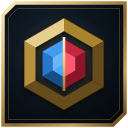
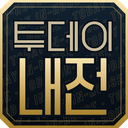
v0.1.182: 새 아이콘 - 리틱체 투데이/내전 + TODAY IN-HOUSE 무늬(앱·홈페이지·디스코드 원형)

diff --git a/CLAUDE.md b/CLAUDE.md
@@ -7,7 +7,7 @@
 - 배포(옛): 사이트(sohada2.github.io/aram) **최하단**에 「투데이 내전 다운로드」 버튼(기존 「내전 오버레이 다운로드」 옆)
 - 출발점: aram-overlay v0.1.55 코드에서 도킹·창·트레이·자동 업데이트·내장 브릿지·팀짜기 알고리즘만 가져오고, 복권·대장간·상점·가챠·패스·프로필·LP·막고라·아이템 페이즈·숨은 라이브 계정은 전부 걷어냄
 
-## 🔄 다른 PC에서 이어받기 (2026-11-12 · v0.1.181)
+## 🔄 다른 PC에서 이어받기 (2026-11-12 · v0.1.182)
 1. **`git pull` 먼저** — 여러 PC가 main에 직접 푸시 + **aramgg 봇이 매일 한국 4:30 main에 커밋**(`docs/data/aramgg`) → 안 받고 푸시하면 거절됨.
 2. `npm install` · ⚠ 셸에 `ELECTRON_RUN_AS_NODE=1`이 있으면 `env -u ELECTRON_RUN_AS_NODE ./node_modules/electron/dist/electron.exe .` · 테스트는 창 숨김(`TN_HIDDEN=1`, 아래 「실행 / 배포」).
 3. **관리자 도구(서버 규칙·시험 데이터 정리·사용량 조회)** = `npm i -g firebase-tools` → `firebase login`(사장님 계정 shm2644) → `node tools/gapi.cjs <메서드> <URL> [본문]` · 규칙 확인 = `node tools/rules-test.cjs`(70건 · 인증 없는 요청 허용/차단 + 끝나면 정리). ⚠ 이 PC 임시 폴더(scratchpad) 도구는 다른 PC에 없음 — 필요한 건 `tools/`에 있음. 집 PC(`C:\Users\so`)도 2026-11-04에 설치·로그인함(VS Code 확장에선 `firebase login`이 브라우저를 못 띄워 → 나온 주소를 사장님이 열고 받은 코드로 `firebase login <코드>`).
@@ -200,6 +200,7 @@ npm start      # ⚠ 이 PC 셸은 ELECTRON_RUN_AS_NODE=1 → env -u ELECTRON
 - **v0.1.97 (2026-11-02)**: 🛡 보안 강화 — 위 「서버 규칙」 v0.1.97 항목(통째 지우기 막음·지난 결과 고정 sv·모양/크기 검사·옛 칸 닫음·목록 밖 방 정리·중계 IP 제한). 앱 변경 = `withSv`(새 경기 기록에 서버 시각) + `roomGc` 목록 밖 방 정리. ⚠ 규칙상 v0.1.96 이하 앱은 경기 기록을 못 만듦(sv 없음) → 자동 업데이트 필수.
 - **v0.1.98 (2026-11-02)**: 🔐 익명 로그인 표식 — 위 「서버 규칙」 익명 로그인 항목. 규칙은 그대로 공개(1단계) · 2단계(auth != null)는 친구들 업데이트 뒤.
 - **v0.1.99 (2026-11-02)**: 🧹 조사용 기록 수집 끔 + 🔐 영상 중계에 로그인 표식 — 위 「서버 규칙」 v0.1.99 항목.
+- **v0.1.182 (2026-11-12)**: 🎨 **새 아이콘 = 리틱체 「투데이 / 내전」 + 흐린 「TODAY IN-HOUSE」 사선 윤곽 무늬**(사장님: 아이콘 변경·디스코드 쪽도 모두 → 글자 중심 시안 6번 돌림: 1차 6개(「내」·두 팀·「내전」·두 줄·TI) → E(두 줄)가 그나마 · 영문+한글 섞은 것·다양하게 → 2차 9개(리틱체) → A(TODAY+내전)·H(리틱체 투데이/내전) → 3차 A·H 변형 → 디스코드는 원형 전용으로(네모를 동그랗게 자르면 테두리 선이 잘려 보임) → H + 흐린 영문 배경(C 윤곽 TODAY·I 큰 T 방식) → 줄 사이 조금·자간 +4 + 영문을 더 흐리게 「패턴화」 → **P3 확정**). **리틱체** = 이 PC에도 설치(공식 https://www.reaticindustry.com/reaticfont · HKCU 사용자 글꼴 · 라이선스 = 그림·영상·인쇄물 자유 / 글꼴 파일 판매·수정·재배포 금지 → **리포·설치 파일엔 안 넣음**). 만드는 도구 **`tools/icon-img.cjs`**(electron · 설치된 리틱체로 SVG를 4배(최대 1024)로 그린 뒤 줄임 — 그대로 작게 그리면 ClearType 때문에 32px 글자 가장자리에 빨강·파랑 번짐): 앱 = 자른 모서리 남색 판 + 금 테두리 + 무늬(-24° · 줄 30 · 반 칸 어긋남 · 윤곽 .22) + 「투데이」(Bold 59 · 자간 4)·「내전」(NarrowBold 113 · 금) · **16·24·32px = 무늬·「투데이」 빼고 「내전」만**(굵은 테두리) → `assets/icon-src/{16..256}.png`·`assets/icon.png`(256)·`icon-tray.png`(64) → `node gen-ico.mjs` = icon.ico(7개 크기 · CI도 npm run icon) · 홈페이지 `docs/img/icon.png` 512(파비콘·머리·**디스코드 상태 큰 그림 DC_LOGO**) · **`docs/img/discord-icon.png` 512 원형 전용**(금색 원 테두리 + 안쪽 가는 원 · 글자 0.8배 · 무늬는 원 안에만) = 디스코드 서버 아이콘·봇 사진(사장님이 디스코드에서 직접 올림 · 바탕화면 「투데이 내전 디스코드 아이콘 (원형).png」) · 예전 `assets/icon-src/icon.svg`(헥스텍 문장 · v0.1.149) 삭제(되살리기 = v0.1.181 커밋). ⚠ 앱 창 머리·홈 화면의 작은 육각 로고(SVG)는 그대로.
 - **v0.1.181 (2026-11-12)**: 🔤 **영문 이름 = TODAY IN-HOUSE로 통일**(사장님: 「내전」 = in-house · v0.1.155에서 결정 대기였던 것) — 화면에 보이는 영문만: 왼쪽 창 머리(overlay.html `.brand-en`) · 오른쪽 창 머리(sidepanel.html `.s-brand-en`) · 홈 화면 평소(`.tt-en`)·게임 시작(`#lg-en`) · 디스코드 서버 연결 뒤 브라우저 안내 쪽(main `dcPage`) · 홈페이지 기능 소개 앱 화면 4개(`.mk-top`) · 라이엇 고지문 「Today In-House was created under…」. ⚠ **내부 이름(today-naejeon)은 그대로**: 저장소·설치 파일 이름·appId·userData·설정 파일·Firebase 프로젝트·중계 머리말(x-tn-app)·시작 프로그램 이름 TodayNaejeon — 바꾸면 자동 업데이트·서버 연결·기존 설정이 끊김. 확인 = 창 머리 400/360px·홈 화면 겹침·잘림 0.
 - **v0.1.180 (2026-11-12)**: ↩ 팟지 소개 윗줄 리틱체 그림(v0.1.179 ③ 「PLAY OF THE GAME」·「UNSUNG HERO」) 되돌림(사장님: 그 부분은 별로) — potg.html·js·css = v0.1.178 상태(Barlow Condensed 글자) · 그림 두 장과 도구 목록 줄 삭제 · 홈페이지 큰 제목·앱 홈 화면·게임 시작 화면의 리틱체는 그대로. ℹ 리틱체는 한글 큰 제목에만 쓰고 영문 작은 줄에는 쓰지 않기로.
 - **v0.1.179 (2026-11-12)**: 🔤 **리틱체 제목 그림을 세 곳 더**(사장님: 같은 방식으로) — `tools/title-img.cjs`를 문구 목록(`ITEMS` · 저장할 곳·내용·글자색·강조색·크기·자간)으로 넓힘 → ① **앱 홈 화면 머리** 「투데이 내전」(`home.html` h1 안 `img.tt-img` 44px · title-ink.png) ② **홈페이지 큰 제목** 「오늘 모인 사람끼리, / 롤 내전 한 판.」(`docs/img/title-1.png`·`title-2.png` · `.hero h1 img { width:min(var(--w), 100%) }` — `--w` = 그림 폭 ÷ 높이 × 1.16em(도구가 출력)이라 글자 크기 그대로 · 좁은 화면에선 폭에 맞춰 줄어듦 · alt에 문구) ③ **팟지 소개 윗줄** 「PLAY OF THE GAME」·「UNSUNG HERO」(`assets/title/potg-en.png`·`unsung-en.png` · `showIntro`가 eyebrow 앞부분을 그림으로 · 뒤 한글 「· 숨은 영웅」은 글자 그대로). 그대로 둔 것 = 팟지 창 머리줄 작은 영문(13px)·홈페이지 머리 작은 이름(16px — 가는 획이라 작으면 안 읽힘)·큰 킬 자막(TRIPLE KILL 등 종류가 많고 색·기울임이 CSS). 확인 = 홈 화면 ui-shot 겹침·잘림 0 · 팟지 소개 캡처 · 홈페이지 1440·390 폭 캡처(가로 넘침 없음).
